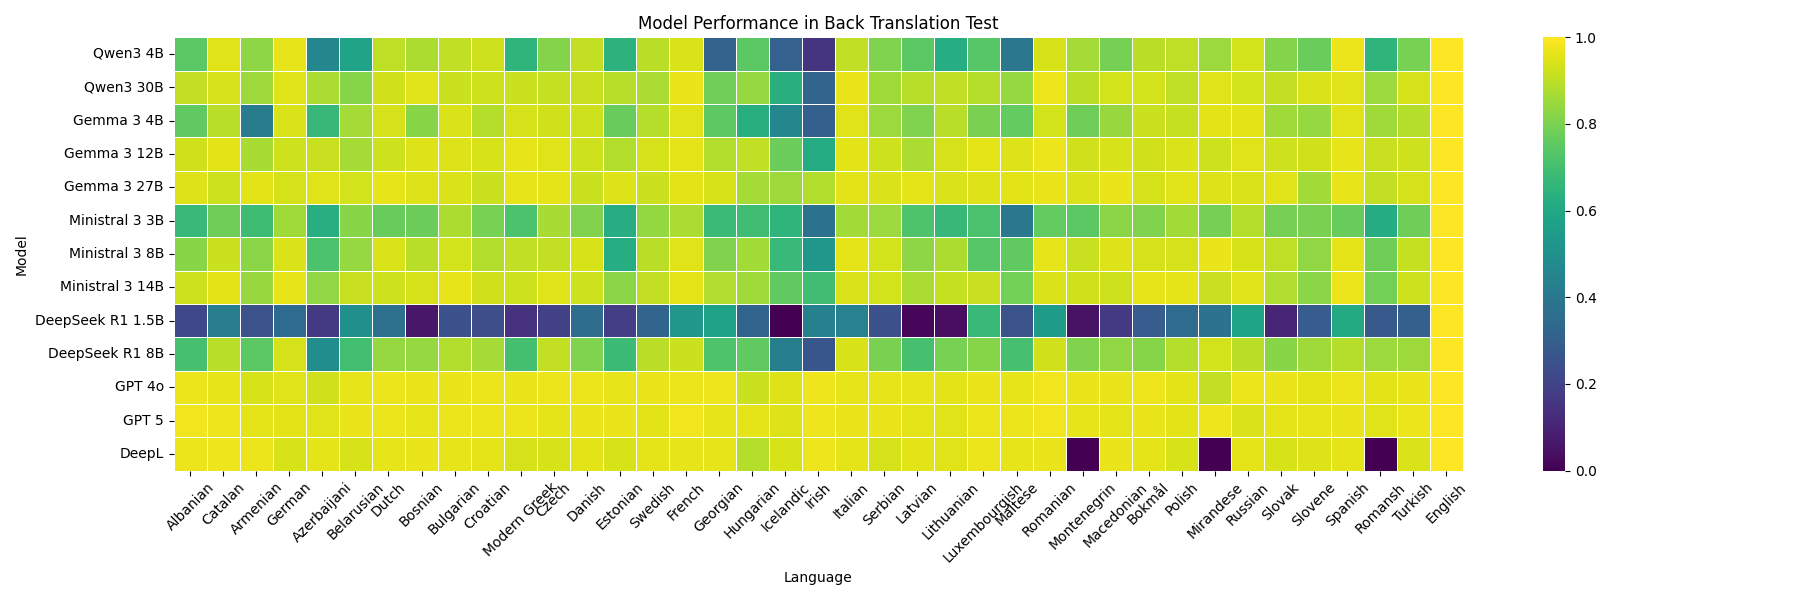
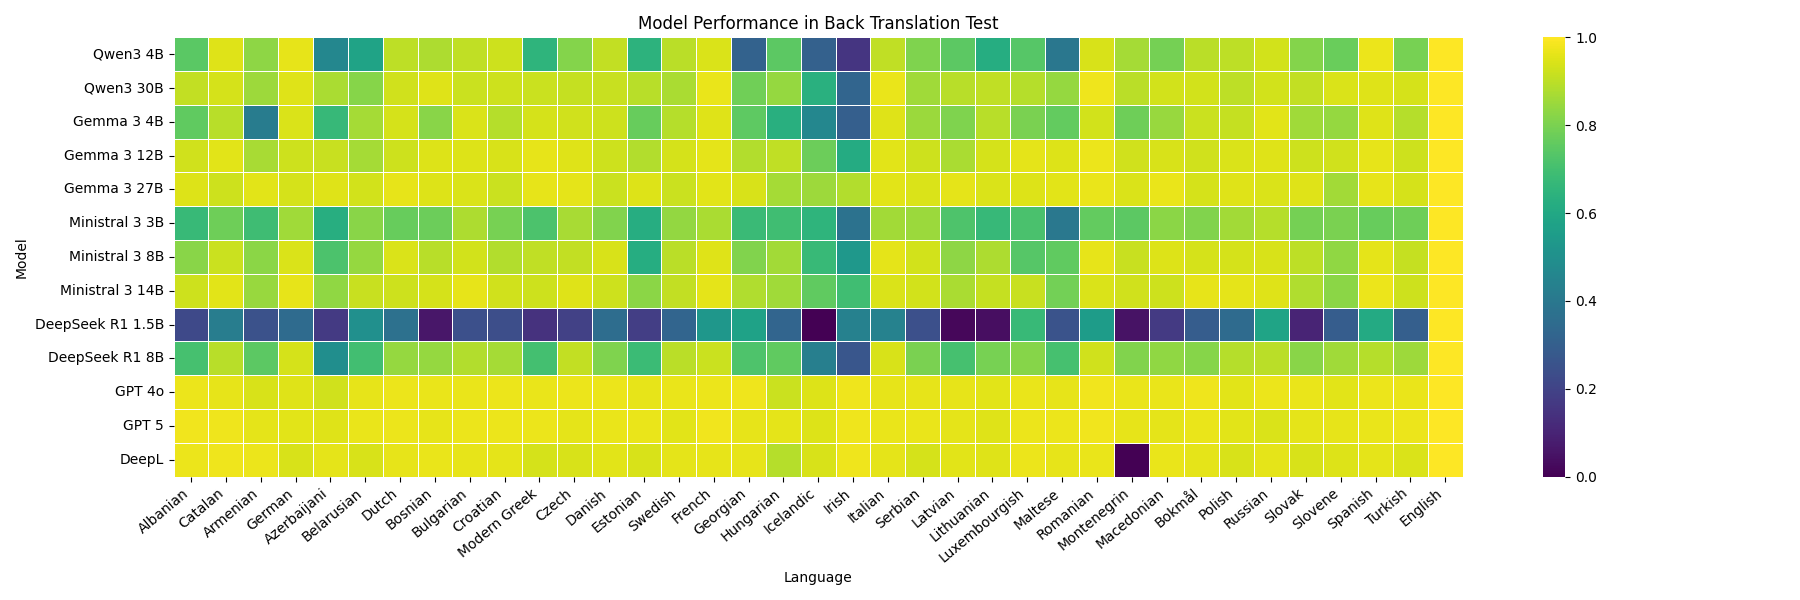
Languages Fix - WIP

diff --git a/lib/extract_wikidata.py b/lib/extract_wikidata.py
@@ -5,9 +5,9 @@ from collections import OrderedDict
 from deep_translator import GoogleTranslator
 from SPARQLWrapper import JSON, SPARQLWrapper
 
-endpoint_url = "https://query.wikidata.org/sparql"
+ENDPOINT_URL = "https://query.wikidata.org/sparql"
 
-query = """
+QUERY = """
 SELECT ?country ?countryLabel ?language ?languageLabel ?languageCode ?citizenshipLabel ?countryCode WHERE {
   VALUES ?country {
     # Council of Europe member states
@@ -36,19 +36,19 @@ ORDER BY ASC(?countryLabel)
 """
 
 
-def get_results(endpoint_url, query):
+def run_query():
     user_agent = "WDQS-example Python/%s.%s" % (
         sys.version_info[0],
         sys.version_info[1],
     )
     # TODO adjust user agent; see https://w.wiki/CX6
-    sparql = SPARQLWrapper(endpoint_url, agent=user_agent)
-    sparql.setQuery(query)
+    sparql = SPARQLWrapper(ENDPOINT_URL, agent=user_agent)
+    sparql.setQuery(QUERY)
     sparql.setReturnFormat(JSON)
     return sparql.query().convert()
 
 
-results = get_results(endpoint_url, query)
+results = run_query()
 count_languages = []
 countries_langs = OrderedDict()
 
@@ -60,19 +60,21 @@ for result in results["results"]["bindings"]:
         
         if country == "country of the Kingdom of the Netherlands":
             continue
-        
-        if country == "Czech Republic":
+        elif country == "Czech Republic":
             country = "Czechia"
         elif country == "Kingdom of the Netherlands":
             country = "Netherlands"
         elif country == "Bosnia and Herzegovina":
-            country = "Bosnia & Herzegovina"
+            country = "Bosnia & Herzegovina"    
         
-        citizenship = result["citizenshipLabel"]["value"]
         if country == "Ukraine":
             citizenship = "Ukraininan"
+        else:
+            citizenship = result["citizenshipLabel"]["value"]
             
         language = result["languageLabel"]["value"]
+        if language == "Romansh" or language == "Mirandese": #Languages spoken by < 1% of the population
+            continue
         
         count_languages.append(result["languageCode"]["value"])
 
@@ -85,7 +87,7 @@ for result in results["results"]["bindings"]:
             }
             cnt_countries += 1
         else:
-            if result["citizenshipLabel"]["value"] and countries_langs[country]["citizenships"] and result["languageLabel"]["value"] in countries_langs[country]["languages"] and result["languageCode"]["value"] in countries_langs[country]["languages_code"]:
+            if citizenship and countries_langs[country]["citizenships"] and language in countries_langs[country]["languages"] and result["languageCode"]["value"] in countries_langs[country]["languages_code"]:
                 continue
             else:
                 #countries_langs[country]["citizenships"].append(citizenship)
@@ -94,13 +96,11 @@ for result in results["results"]["bindings"]:
 
         cnt += 1
 
-    except Exception as e:
-        print("#" * 10)
-        print("language code not found", result["languageLabel"]["value"], result["languageCode"]["value"])
+    except Exception as X:
+        #print("language code not found", result["languageLabel"]["value"], result["languageCode"]["value"])
+        print(f"Error; {X['args']}")
         continue
 
-print("Total languages found: ", cnt)
-print("Total unique languages found: ", len(count_languages))
 
 for country in countries_langs:
     # countries_langs[country]["citizenships"] = list(
@@ -111,11 +111,13 @@ for country in countries_langs:
         countries_langs[country]["languages_code"]
     )
 
-    if len(countries_langs[country]["citizenships"]) > 1:
-        print(country, countries_langs[country]["citizenships"])
+    # if len(countries_langs[country]["citizenships"]) > 1:
+    #     print(country, countries_langs[country]["citizenships"])
 
 
-print(countries_langs)
+#print(countries_langs)
+print("Total languages found: ", len(count_languages))
+print("Total unique languages found: ", len(set(count_languages)))
 print("Total countries: ", len(countries_langs))
 
 with open("data/countries.json", "w", encoding="utf-8") as f:

diff --git a/lib/building.py b/lib/building.py
@@ -307,9 +307,16 @@ def test_model_languages(model_list):
 
 #translate the default prompt from English to all the other languages and populate the file prompt.json
 def translate_default_prompt():
-    model_name = GEMMA3_27
+    model_name = DEEPL
     
-    languages_list = [COUNTRIES_FILE[country_name][LANGUAGES][0] for country_name in COUNTRIES_FILE]
+    # languages_list = [COUNTRIES_FILE[country_name][LANGUAGES][0] for country_name in COUNTRIES_FILE]
+    languages_list = [
+        {
+            LANGUAGES: COUNTRIES_FILE[country_name][LANGUAGES][0],
+            LANGUAGES_CODE: COUNTRIES_FILE[country_name][LANGUAGES_CODE][0],
+        }
+        for country_name in COUNTRIES_FILE
+    ]
     model = Model(model_name)
     error = model.initialize_model()
     if error:
@@ -324,18 +331,23 @@ def translate_default_prompt():
         }
     
     for language in tqdm.tqdm(languages_list, desc=f"Translating prompt"):
-        if language not in row_results and language != "English":
-            row_results[language] = {}
+        if language[LANGUAGES] not in row_results and language[LANGUAGES] != "English":
+            row_results[language[LANGUAGES]] = {}
             for key, val in row_results["English"].items():
-                tra = translate(model, val, language)
-                row_results[language][key] = tra.lower().replace(".", "").replace("*", "").replace('"', "").replace('\\"', "").strip() if key == YES or key == NO else tra 
+                if model.name == DEEPL:
+                    translation = deepl_translation(model, val, language[LANGUAGES_CODE])
+                    if translation == "":
+                        breakpoint
+                else: 
+                    translation = translate(model, val, language[LANGUAGES])
+                row_results[language[LANGUAGES]][key] = translation.lower().replace(".", "").replace("*", "").replace('"', "").replace('\\"', "").strip() if key == YES or key == NO else translation 
     
     with open("data/prompt.json", "w", encoding="utf-8") as f:
         json.dump(row_results, f, indent=4, ensure_ascii=False)
     
 
 #Check models ability to support the langauges
-model_list = [DEEPL]
+model_list = [QWEN3_4]
 test_model_languages(model_list)
 
 #translate_default_prompt()